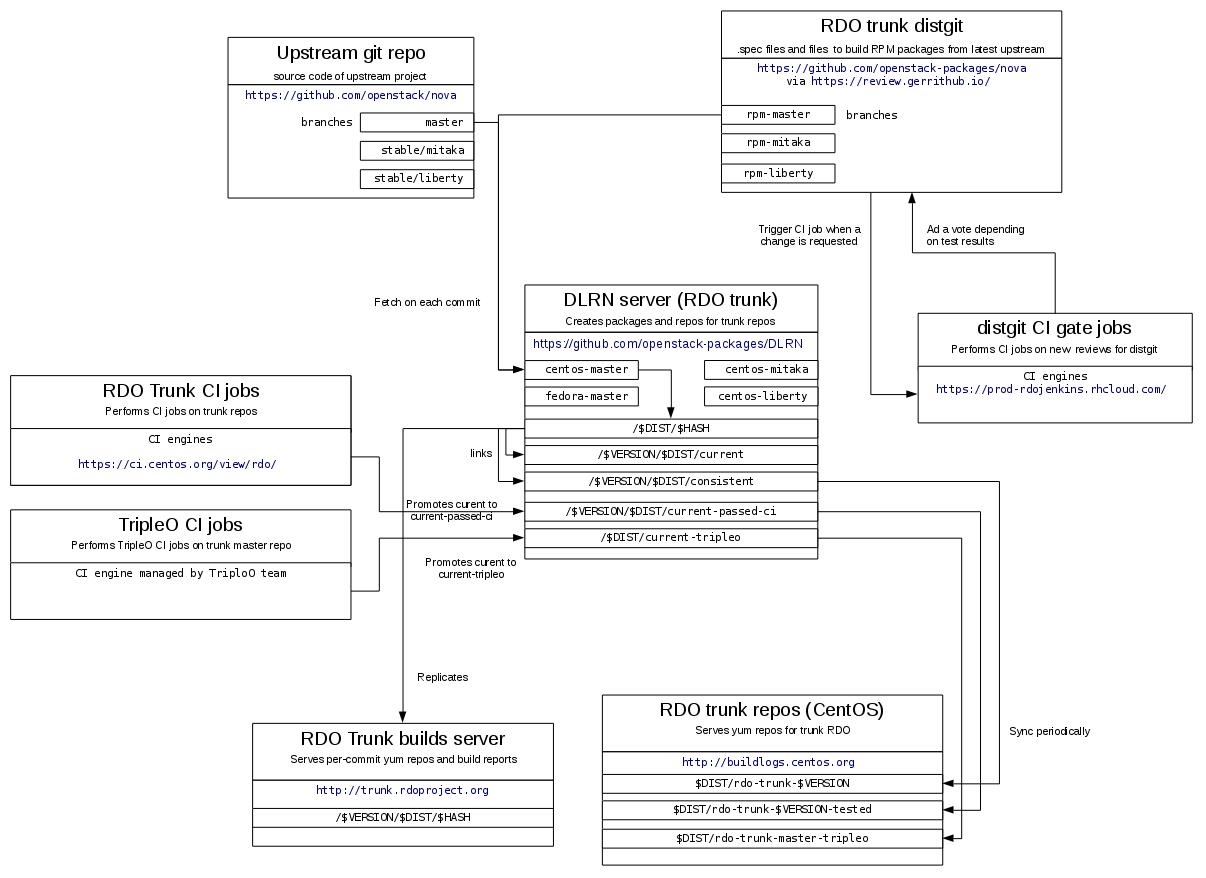
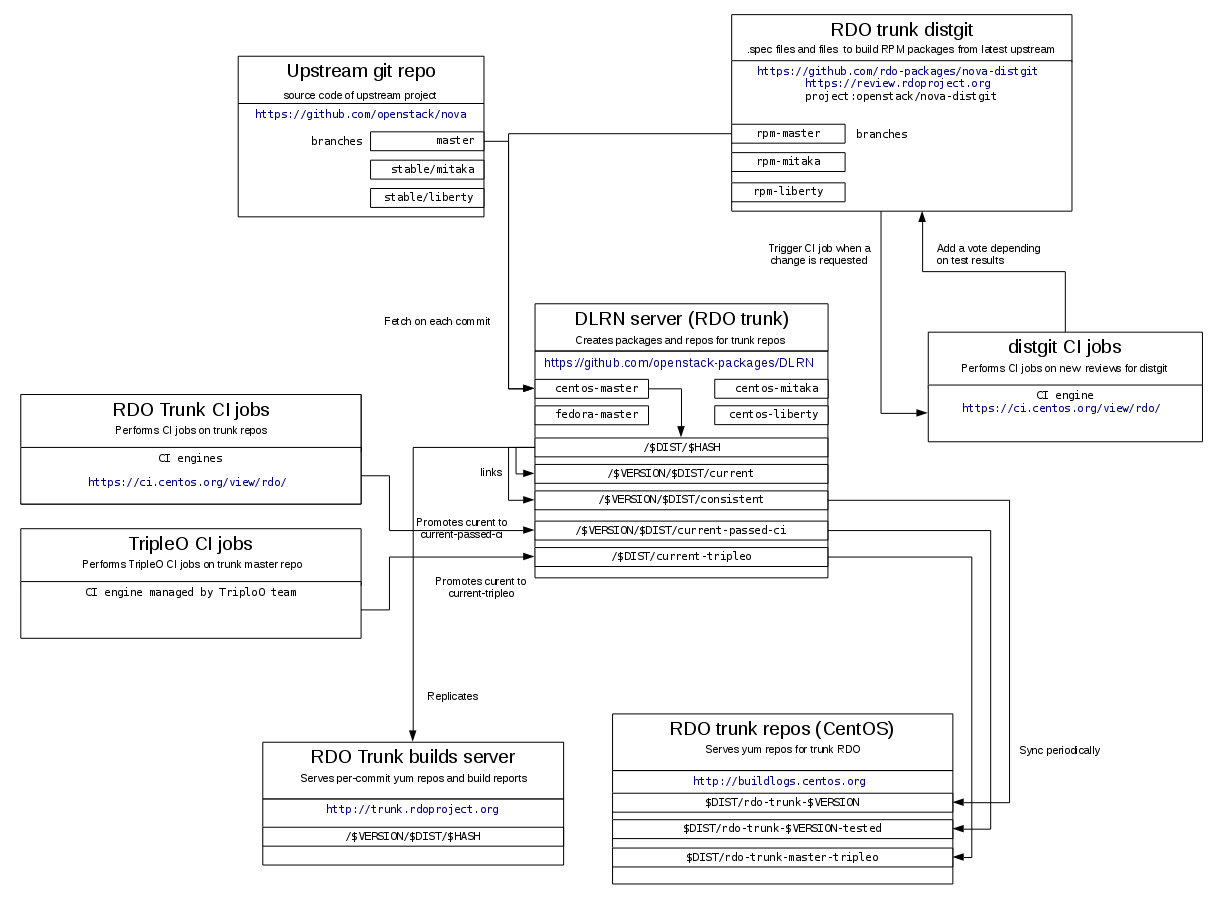
Fixed some typos from feedback. Adapted to rpmfactory
Maintain as unpublished until further notice.

Changed region(s): [[0.0, 0.0, 1.0, 1.0], [0.2148, 0.7688, 0.4602, 0.9841]]

diff --git a/source/blog/2016-04-12-newbie-in-rdo-2-rdo-trunk-from-a-bird-s-eye-view.html.md b/source/blog/2016-04-12-newbie-in-rdo-2-rdo-trunk-from-a-bird-s-eye-view.html.md
@@ -6,9 +6,9 @@ date: 2016-04-15 16:47:18 CEST
 published: false
 ---
 
-Time goes fast as a RDO newbie and once I understood what the RDO Trunk and Stable repos provide (read my [previous post](https://www.rdoproject.org/blog/2016/04/new-in-rdo-repos-one-size-doesn-t-fit-all/) if you still have doubts), my next goal was to have a clear high level perspective of the entire delivery workflow followed in the project.
+Time goes fast as a RDO newbie and once I understood what the RDO Trunk and Stable repos provide (read my [previous post](https://www.rdoproject.org/blog/2016/04/new-in-rdo-repos-one-size-doesn-t-fit-all/) if you still have doubts), my next goal was to have a clear high-level perspective of the entire delivery workflow followed in the project.
 
-Although there is a lot of detailed and great information both in different (see [More info](More info) at the end of the post), it may be useful for others to provide a high level and global description of it. In this post I'll focus in the process around RDO Trunk repositories as shown in following diagram:
+Although there is a lot of detailed and great information both in different sources (see [More info](####More info) at the end of the post), it may be useful for others to provide a high level and global description of it. In this post I'll focus in the process around RDO Trunk repositories as shown in the following diagram:
 
 ![RDO high level](../images/blog/rdo-trunk-high-level.png)
 
@@ -16,32 +16,32 @@ Although there is a lot of detailed and great information both in different (see
 
 ### Upstream Code
 
-As for any packaging project, everything starts with the upstream code. For RDO, upstream code is provided by OpenStack projects in https://github.com/openstack/&lt;project> . The process to to manage these repos is defined by OpenStack and can be found in their [Developer Guide](http://docs.openstack.org/infra/manual/developers.html) and the [Release Process](http://docs.openstack.org/project-team-guide/release-management.html).
+As for any packaging project, everything starts with the upstream code. For RDO, it is provided by OpenStack projects in https://github.com/openstack/&lt;project> . The process to manage these repos is defined by OpenStack and can be found in their [Developer Guide](http://docs.openstack.org/infra/manual/developers.html) and the [Release Process](http://docs.openstack.org/project-team-guide/release-management.html).
 
 In RDO, these repositories are used to fetch the code that will be packaged for both RDO Trunk and Stable in different ways:
 
-- For RDO Trunk, the automatic packager, DLRN clones the involved git repos.
+- For RDO Trunk, the automatic packager, DLRN clones the involved git repo.
 - For RDO stable, the specific tarball for the point release to be packaged will be fetched at packaging time.
 
 ### Distgit repo
 
-As described in the great [RDO packaging guide](https://www.rdoproject.org/packaging/rdo-packaging.html), ditgit is the git repository "where the .spec file lives" . For RDO, distgit repos are located in https://github.com/openstack-packages/&lt;project>. Tipically they contain the spec files used to build RPM packages, systemd unit files and some system config files (i.e. logrotate or sudoers configuration).
+As described in the great [RDO packaging guide](https://www.rdoproject.org/packaging/rdo-packaging.html), ditgit is the git repository "where the .spec file lives" . For RDO, distgit repos are located in https://github.com/rdo-packages/&lt;project>. Typically they contain the spec files used to build RPM packages, systemd unit files and some system config files (i.e. logrotate or sudoers configuration).
 
 Because of the reproducibility requirements of RDO Stable packaging, spec files for stable and trunk differ slightly:
 
-- Changelog, version and release fields for trunk is automatically generated while it must be manually created for stable packages.
-- Source code is fetched from a versioned tarball for stable.
+- Changelog, version and release fields for the trunk is automatically generated while it must be manually created for stable packages.
+- The source code is fetched from a versioned tarball for stable.
 
-Also, we usually have different requirements for each OpenStack versions so different branches are created based on version and RDO "flavor" (trunk or stable):
+Also, we usually have different requirements for each OpenStack version so different branches are created based on version and RDO "flavor" (trunk or stable):
 
 - rpm-&lt;version> : is used to package RDO trunk (version can be master, mitaka, liberty or kilo)
 - &lt;version>-rdo : is used for RDO stable (as this is only for released version, master-rdo does not exist)
 
-To ensure proper management of distgit repos, required changes follow a review process in [gerrithub](https://review.gerrithub.io/) quite similar to the OpenStack project. Before merging the change in the actual repository, every request (review) will trigger a test job in the [CI system](https://prod-rdojenkins.rhcloud.com/) that will post its -/+1 vote depending on the results and will require a core contributor to review and validate it.
+To ensure proper management of distgit repos, required changes follow a review process in [RDO rpmfactory](https://review.rdoproject.org/r/) quite similar to the OpenStack project. Before merging the change in the actual repository, every request (review) will trigger a test job in the [CI system](https://review.rdoproject.org/jenkins/) that will post its -/+1 vote depending on the results and will require a core contributor to review and validate it.
 
 ## DLRN: automatic packager for RDO Trunk
 
-Packaging for RDO trunk is done by [DLRN](https://github.com/openstack-packages/DLRN), a tool to build RPM packages on each commit merged in a set of configurable repositories. DLRN uses rdopkg to retrieve the metadata and repositories associated to each package (code and distgit) and mock to carry out the actual build.
+Packaging for RDO trunk is done by [DLRN](https://github.com/openstack-packages/DLRN), a tool to build RPM packages on each commit merged in a set of configurable repositories. DLRN uses rdopkg to retrieve the metadata and repositories associated with each package (code and distgit) and mock to carry out the actual build.
 
 NVR for packages generated by DLRN follows some rules:
 
@@ -50,41 +50,41 @@ NVR for packages generated by DLRN follows some rules:
 
 For example, python-novaclient-3.4.1-0.20160412103538.77f214b.el7.centos.noarch.rpm is a package containing code released after GA of 3.4.0 and before 3.4.1 containing code until upstream commit [77f214b](https://github.com/openstack/python-novaclient/commit/77f214bdbd7d9e8ba935ace1dce0290061ddd737).
 
-Once the package has been successfully built, DLRN creates a yum repository containing the latest version of every package successfully built at that time. This repo will not change and is created in a unique directory based on the specific commit hash. These repos will be available if a user want to test an installation based on a specific commit. Finally, DLRN manages two "shorcuts" for repositories:
+Once the package has been successfully built, DLRN creates a yum repository containing the latest version of every package successfully built at that time. This repo will not change and is created in a unique directory based on the specific commit hash. These repos will be available if a user wants to test an installation based on a specific commit. Finally, DLRN manages two "shorcuts" for repositories:
 
 - **current**: will point to the last created per-commit repo.
-- **consistent**: current repo, may not contain the latest versions of packages that failed to build (i.e. let's assume that packaging of python-nova package failed while a later build of python-cinder succeed, in this case, current would contain latest upstream version of cinder but not for nova). To avoid this situation, a new pointer "consistent" is managed by DLRN and will point to the last snapshot that contained packages versions in sync with upstream version.
+- **consistent**: current repo, may not contain the latest versions of packages that failed to build (i.e. let's assume that packaging of python-nova package failed while a later build of python-cinder succeed, in this case, current would contain the latest upstream version of cinder but not for nova). To avoid this situation, a new pointer "consistent" is managed by DLRN and will point to the last snapshot that contained package versions in sync with upstream versions.
 
-Also, DLRN creates some html reports that can be used to check the results of each single build and provides the logs to troubleshoot any error while building the package.
+Also, DLRN creates some html reports that can be used to check the results of each single build and provides the logs for troubleshooting any error while building the package.
 
 ## Continuous Integration in RDO Trunk
 
-To ensure the packages built by DLRN work as expected, the RDO project manages some CI jobs pipeline in the [CentOS CI](https://ci.centos.org/view/rdo/) system. These jobs are managed using jenkins-job-builder with the configuration manated in [rdo-infra github](https://github.com/rdo-infra/ci-config). These jobs deploy and test RDO in different scenarios (packstack, tripleo quickstart and puppet) based mostly on weirdo (take a look into [weirdo documentation](http://weirdo.readthedocs.org/en/latest/how.html)) using the **consistent** repository. If all tests in the pipeline succes, the content of repo will be promoted as **current-passed-ci**. In this way, this link always points to the latest consistent repo that passed the CI jobs.
+To ensure the packages built by DLRN work as expected, the RDO project manages some CI jobs pipeline in the [CentOS CI](https://ci.centos.org/view/rdo/) system. These jobs are created using jenkins-job-builder with the configuration managed in [rdo-infra github](https://github.com/rdo-infra/ci-config). These jobs deploy and test RDO in different scenarios (packstack, tripleo quickstart and puppet) based mostly on WeIRDO (take a look into [weirdo documentation](http://weirdo.readthedocs.org/en/latest/how.html)) using the **consistent** repository. If all tests in the pipeline success, the content of the tested repo will be promoted as **current-passed-ci**. In this way, this link always points to the latest consistent repo that passed the CI jobs.
 
 Additionally, **current-tripleo** repo is managed by a set of jobs focused on testing TripleO installer on the current-passed-ci repo. When those tests pass, this repo is promoted by this CI pipeline.
 
 ## Access to repositories
 
-All the repositories and content managed by DLRN and CI jobs are not directly accessible for public usage from DLRN server. Instead, the content s replicated to a different destinations depending on the type:
+All the repositories and content managed by DLRN and CI jobs are not directly accesible for public usage from DLRN server. Instead, the content is replicated to a different destinations depending on the type:
 
 - For consistent, current-passed-ci and current-tripleo, repositories are periodically copied to [CentOS buildlogs](http://buildlogs.centos.org/) servers where they are served in different URLs according to following table:
 
-  
-    |Repo in DLRN|    | Access in centos repos|
-|-------------|--|------------------|
-|centos7-master/consistent | |  http://buildlogs.centos.org/centos/7/cloud/x86_64/rdo-trunk-master
-|centos7-master/current-passed-ci | |  http://buildlogs.centos.org/centos/7/cloud/x86_64/rdo-trunk-master-tested
-|centos7-master/current-tripleo | |  http://buildlogs.centos.org/centos/7/cloud/x86_64/rdo-trunk-master-tripleo
-|centos7-mitaka/consistent | |  http://buildlogs.centos.org/centos/7/cloud/x86_64/rdo-trunk-mitaka
-|centos7-mitaka/current-passed-ci | |  http://buildlogs.centos.org/centos/7/cloud/x86_64/rdo-trunk-mitaka-tested
-|centos7-liberty/consistent | |  http://buildlogs.centos.org/centos/7/cloud/x86_64/rdo-trunk-liberty
-|centos7-liberty/current-passed-ci | |  http://buildlogs.centos.org/centos/7/cloud/x86_64/rdo-trunk-liberty-tested
-|centos7-kilo/consistent | |  http://buildlogs.centos.org/centos/7/cloud/x86_64/rdo-trunk-kilo
-|centos7-kilo/current-passed-ci | |  http://buildlogs.centos.org/centos/7/cloud/x86_64/rdo-trunk-kilo-tested
+
+    |Repo in DLRN|Access in centos repos|
+|-------------|--------------------|
+|centos7-master/consistent |  http://buildlogs.centos.org/centos/7/cloud/x86_64/rdo-trunk-master
+|centos7-master/current-passed-ci |  http://buildlogs.centos.org/centos/7/cloud/x86_64/rdo-trunk-master-tested
+|centos7-master/current-tripleo |  http://buildlogs.centos.org/centos/7/cloud/x86_64/rdo-trunk-master-tripleo
+|centos7-mitaka/consistent |  http://buildlogs.centos.org/centos/7/cloud/x86_64/rdo-trunk-mitaka
+|centos7-mitaka/current-passed-ci |  http://buildlogs.centos.org/centos/7/cloud/x86_64/rdo-trunk-mitaka-tested
+|centos7-liberty/consistent |  http://buildlogs.centos.org/centos/7/cloud/x86_64/rdo-trunk-liberty
+|centos7-liberty/current-passed-ci |  http://buildlogs.centos.org/centos/7/cloud/x86_64/rdo-trunk-liberty-tested
+|centos7-kilo/consistent |  http://buildlogs.centos.org/centos/7/cloud/x86_64/rdo-trunk-kilo
+|centos7-kilo/current-passed-ci |  http://buildlogs.centos.org/centos/7/cloud/x86_64/rdo-trunk-kilo-tested
 
 <br>
 
-- By-commit repos (the ones based on the commit hash), build reports and logs are synchronized to the build server and are accesible in [https://trunk.rdoproject.org/](https://trunk.rdoproject.org/) to developers or packages. On each repository directory a delorean.repo file is created containing the yum configuration required to enable it easily.
+- By-commit repos (the ones based on the commit hash), build reports and logs are synchronized to the build server and are accessible in [https://trunk.rdoproject.org/](https://trunk.rdoproject.org/) to developers or packagers. On each hash repository directory a delorean.repo file is created containing the yum configuration required to enable it easily.
 
 #### More info
 
@@ -92,5 +92,3 @@ All the repositories and content managed by DLRN and CI jobs are not directly ac
 [Delorean: OpenStack packages from the future by Frederic Lepied](http://blogs.rdoproject.org/7834/delorean-openstack-packages-from-the-future)  
 [DLRN documentation]( https://github.com/openstack-packages/DLRN/tree/master/doc/source )  
 [Testing Openstack is Hard by David Moreau Simard](http://redhat.slides.com/dmoreaus/testing-openstack-is-hard#/)  
-
-

diff --git a/source/blog/2016-04-08-new-in-rdo-repos-one-size-doesn-t-fit-all.html.md b/source/blog/2016-04-08-new-in-rdo-repos-one-size-doesn-t-fit-all.html.md
@@ -15,8 +15,24 @@ As a new contributor to the RDO project, one of my first tasks was to understand
 
 Providing a suitable distribution for all these scenarios is not an easy task and the RDO community ended up with two different distribution set of repos targetting different purposes:
 
+### RDO Stable repos
+Provide a set of stable OpenStack packages through CentOS CloudSIG repos based on CBS, [CentOS Community Build System](https://wiki.centos.org/HowTos/CommunityBuildSystem):
+
+- The RDO Stable repos are only published after GA of a upstream release (only stable branches are used, not master).
+- New packages are created only when a new point release is published (release tag created) on upstream stable repositories. The RDO community is currently working to automate as much as possible the process to build these packages in rpmfactory.
+- In addition to the vanilla upstream code, some patches may be applied during packaging:
+  - Fixes for security issues or critical bugs not backported upstream. Note that an upstream-first policy is applied so these patches will be applied only after merged in upstream master.
+  - Patches required for the packaging process.
+- Packages are created through a controlled workflow. This is accomplished by koji (the technology behind CBS) which ensures reproducibility of the building process by:
+  - Creating a self-contained build environment (buildroot) that provides all the dependencies by a controlled package. No network access exist int this build environment.
+  - Recording both the spec file defining the package to be built and the packages included in the buildroot. This information allows to recreate exactly the same build environment to create the package at a later point in time.
+- The criteria for pubishing any new release includes both thechnical (a set of CI jobs must pass as aggreed in [RDO community meeting](https://meetbot.fedoraproject.org/rdo/2016-04-06/rdo_meeting_%282016-04-06%29.2016-04-06-15.00.html)) and non-technical requirements (documentation, etc...).
+
+This is probably what you want to use for your stable cloud with a community-supported OpenStack distribution and what you will use following the [official upstream install guide](http://docs.openstack.org/mitaka/install-guide-rdo/environment-packages.html) or [RDO docummentation](https://www.rdoproject.org/install/) to deploy and manage OpenStack.
+
+
 ### RDO Trunk repos
-Provide RPM package repositories for OpenStack projects as close as possible to the vanilla upstream code in order to test any change and catch any bug or impact on packaging as soon as possible. These packages are built when a commit is merged in upstream master or any of the supported stable branches. Once a build is done, a set of CI jobs is passed to validate installation and basic functionalities. As part of RDO Trunk we provide different repos for CentOS 7 under http://buildlogs.centos.org/centos/7/cloud/x86_64/ :
+Provide RPM package repositories for OpenStack projects as close as possible to the vanilla upstream code in order to test any change and catch any bug or impact on packaging as soon as possible. These packages are built when a commit is merged in upstream master or any of the supported stable branches. This means that new packages are provided even during the development phase of a new release (before GA). Once a build is done, a set of CI jobs is passed to validate installation and basic functionalities. As part of RDO Trunk we provide different repos for CentOS 7 under http://buildlogs.centos.org/centos/7/cloud/x86_64/ :
 
 - **rdo-trunk-&lt;branch>:** provides the latest snapshot of packages successfully built (i.e. rdo-trunk-mitaka).
 - **rdo-trunk-&lt;branch>-tested:** provides the latest snapshot of packages built and with CI jobs successfully passed (i.e. rdo-trunk-master-tested).
@@ -32,22 +48,7 @@ If you are a OpenStack developer, using RDO trunk may be a good option to build 
 
 Finally, if you are a packager, you probably want to know how the build process went for a specific commit or even to perform an installation based on it. RDO provides both build reports and RPM repos based on each commit for both CentOS and Fedora from https://trunk.rdoproject.org.
 
-[Fred](http://blogs.rdoproject.org/author/fred) wrote an excelent [post](http://blogs.rdoproject.org/7834/delorean-openstack-packages-from-the-future) describing how DLRN (f.k.a. delorean) build packages for RDO trunk repos.
-
-### RDO Stable repos
-Provide a more stable set of packages through CentOS CloudSIG repos based on CBS, [CentOS Community Build System](https://wiki.centos.org/HowTos/CommunityBuildSystem). These repos differ from RDO Trunk in several ways:
-
-- Packages are only published after GA of a upstream release (only stable branches are used, not master).
-- New packages are created only when a new point release is published (release tag created) on upstream repositories. The RDO community is currently working to automate as much as possible the process to build these packages in rpmfactory.
-- In addition to the vanilla upstream code, some patches may be applied during packaging:
-  - Fixes for security issues or critical bugs not backported upstream. Note that an upstream-first policy is applied so these patches will be applied only after merged in upstream master.
-  - Patches required for the packaging process.
-- Packages are created through a controlled workflow. This is accomplished by koji (the technology behind CBS) which ensures reproducibility of the building process by:
-  - Creating a self-contained build environment (buildroot) that provides all the dependencies by a controlled package. No network access exist int this build environment.
-  - Recording both the spec file defining the package to be built and the packages included in the buildroot. This information allows to recreate exactly the same build environment to create the package at a later point in time.
-- The criteria to pubishing any new release includes both thechnical (a set of CI jobs must pass as aggreed in [RDO community meeting](https://meetbot.fedoraproject.org/rdo/2016-04-06/rdo_meeting_%282016-04-06%29.2016-04-06-15.00.html)) and non-technical requirements (documentation, etc...).
-
-This is probably what you want to use for your stable cloud with a community-supported OpenStack distribution and what you will use following the [official upstream install guide](http://docs.openstack.org/mitaka/install-guide-rdo/environment-packages.html) or [RDO docummentation](https://www.rdoproject.org/install/) to deploy and manage OpenStack.
+[Fred](http://blogs.rdoproject.org/author/fred) wrote an excelent [post](http://blogs.rdoproject.org/7834/delorean-openstack-packages-from-the-future) describing how DLRN (f.k.a. delorean) builds packages for RDO trunk repos.
 
 If you are interested in the details about how to build RDO packages, you'll find a lot of interesting information in [RDO documentation](https://www.rdoproject.org/documentation/packaging/).
 
